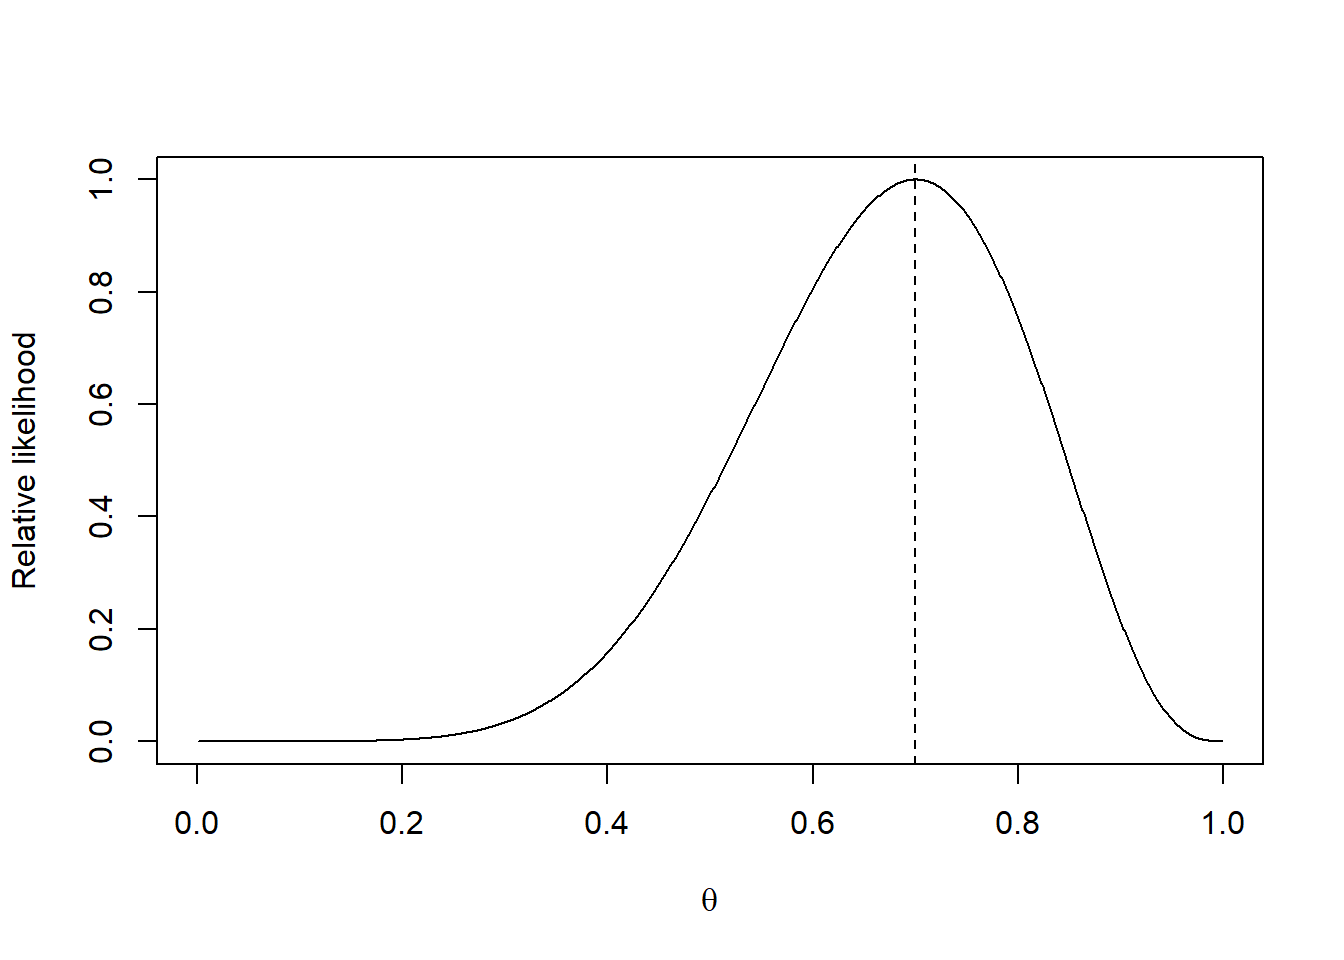
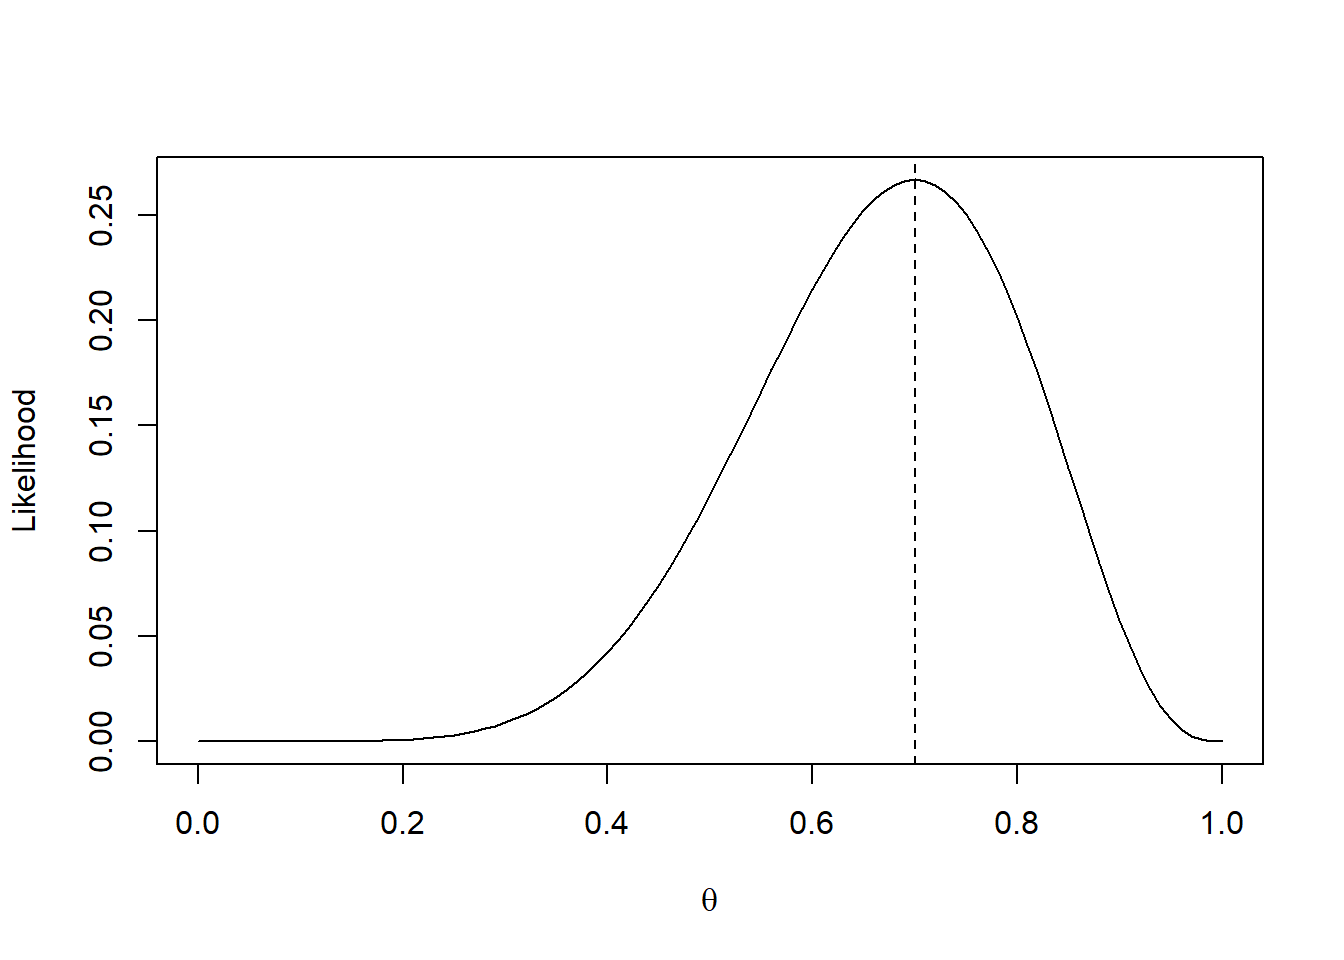
Built site for gh-pages

diff --git a/classes/stat251/midterm/unit-1.html b/classes/stat251/midterm/unit-1.html
@@ -371,23 +371,22 @@ window.Quarto = {
 <h3 class="anchored" data-anchor-id="executable-likelihood-example">Executable likelihood example</h3>
 <div class="cell">
 <div class="code-copy-outer-scaffold"><div class="sourceCode cell-code" id="cb1"><pre class="sourceCode r code-with-copy"><code class="sourceCode r"><span id="cb1-1"><a href="#cb1-1" aria-hidden="true" tabindex="-1"></a>y <span class="ot">&lt;-</span> <span class="fu">c</span>(<span class="dv">1</span>, <span class="dv">0</span>, <span class="dv">1</span>, <span class="dv">1</span>, <span class="dv">0</span>, <span class="dv">1</span>, <span class="dv">1</span>, <span class="dv">0</span>, <span class="dv">1</span>, <span class="dv">1</span>)</span>
-<span id="cb1-2"><a href="#cb1-2" aria-hidden="true" tabindex="-1"></a>n <span class="ot">&lt;-</span> <span class="fu">length</span>(y); s <span class="ot">&lt;-</span> <span class="fu">sum</span>(y)</span>
-<span id="cb1-3"><a href="#cb1-3" aria-hidden="true" tabindex="-1"></a>theta <span class="ot">&lt;-</span> <span class="fu">seq</span>(<span class="fl">0.001</span>, <span class="fl">0.999</span>, <span class="at">length.out =</span> <span class="dv">1000</span>)</span>
-<span id="cb1-4"><a href="#cb1-4" aria-hidden="true" tabindex="-1"></a>log_lik <span class="ot">&lt;-</span> <span class="fu">vapply</span>(theta, <span class="cf">function</span>(t) <span class="fu">sum</span>(<span class="fu">dbinom</span>(y, <span class="dv">1</span>, t, <span class="at">log =</span> <span class="cn">TRUE</span>)), <span class="fl">0.0</span>)</span>
-<span id="cb1-5"><a href="#cb1-5" aria-hidden="true" tabindex="-1"></a><span class="fu">plot</span>(theta, <span class="fu">exp</span>(log_lik <span class="sc">-</span> <span class="fu">max</span>(log_lik)), <span class="at">type =</span> <span class="st">"l"</span>,</span>
-<span id="cb1-6"><a href="#cb1-6" aria-hidden="true" tabindex="-1"></a>     <span class="at">xlab =</span> <span class="fu">expression</span>(theta), <span class="at">ylab =</span> <span class="st">"Relative likelihood"</span>)</span>
-<span id="cb1-7"><a href="#cb1-7" aria-hidden="true" tabindex="-1"></a><span class="fu">abline</span>(<span class="at">v =</span> s<span class="sc">/</span>n, <span class="at">lty =</span> <span class="dv">2</span>)</span></code></pre></div><button title="Copy to Clipboard" class="code-copy-button"><i class="bi"></i></button></div>
+<span id="cb1-2"><a href="#cb1-2" aria-hidden="true" tabindex="-1"></a></span>
+<span id="cb1-3"><a href="#cb1-3" aria-hidden="true" tabindex="-1"></a>n <span class="ot">&lt;-</span> <span class="fu">length</span>(y)</span>
+<span id="cb1-4"><a href="#cb1-4" aria-hidden="true" tabindex="-1"></a>s <span class="ot">&lt;-</span> <span class="fu">sum</span>(y)</span>
+<span id="cb1-5"><a href="#cb1-5" aria-hidden="true" tabindex="-1"></a></span>
+<span id="cb1-6"><a href="#cb1-6" aria-hidden="true" tabindex="-1"></a><span class="fu">curve</span>(<span class="fu">dbinom</span>(s, n, x),</span>
+<span id="cb1-7"><a href="#cb1-7" aria-hidden="true" tabindex="-1"></a>      <span class="at">from =</span> <span class="dv">0</span>, <span class="at">to =</span> <span class="dv">1</span>,</span>
+<span id="cb1-8"><a href="#cb1-8" aria-hidden="true" tabindex="-1"></a>      <span class="at">xlab =</span> <span class="fu">expression</span>(theta),</span>
+<span id="cb1-9"><a href="#cb1-9" aria-hidden="true" tabindex="-1"></a>      <span class="at">ylab =</span> <span class="st">"Likelihood"</span>)</span>
+<span id="cb1-10"><a href="#cb1-10" aria-hidden="true" tabindex="-1"></a></span>
+<span id="cb1-11"><a href="#cb1-11" aria-hidden="true" tabindex="-1"></a><span class="fu">abline</span>(<span class="at">v =</span> s<span class="sc">/</span>n, <span class="at">lty =</span> <span class="dv">2</span>)</span></code></pre></div><button title="Copy to Clipboard" class="code-copy-button"><i class="bi"></i></button></div>
 <div class="cell-output-display">
 <div>
 <figure class="figure">
 <p><img src="unit-1_files/figure-html/unnamed-chunk-1-1.png" class="img-fluid figure-img" width="672"></p>
 </figure>
 </div>
-</div>
-<div class="code-copy-outer-scaffold"><div class="sourceCode cell-code" id="cb2"><pre class="sourceCode r code-with-copy"><code class="sourceCode r"><span id="cb2-1"><a href="#cb2-1" aria-hidden="true" tabindex="-1"></a><span class="fu">c</span>(<span class="at">successes =</span> s, <span class="at">trials =</span> n, <span class="at">mle =</span> s<span class="sc">/</span>n)</span></code></pre></div><button title="Copy to Clipboard" class="code-copy-button"><i class="bi"></i></button></div>
-<div class="cell-output cell-output-stdout">
-<pre><code>successes    trials       mle 
-      7.0      10.0       0.7 </code></pre>
 </div>
 </div>
 <p>Subtracting the largest log likelihood prevents numerical underflow and rescales the maximum to one. The Bernoulli maximum likelihood estimate is <span class="math inline">\(\hat\theta=s/n\)</span>.</p>
